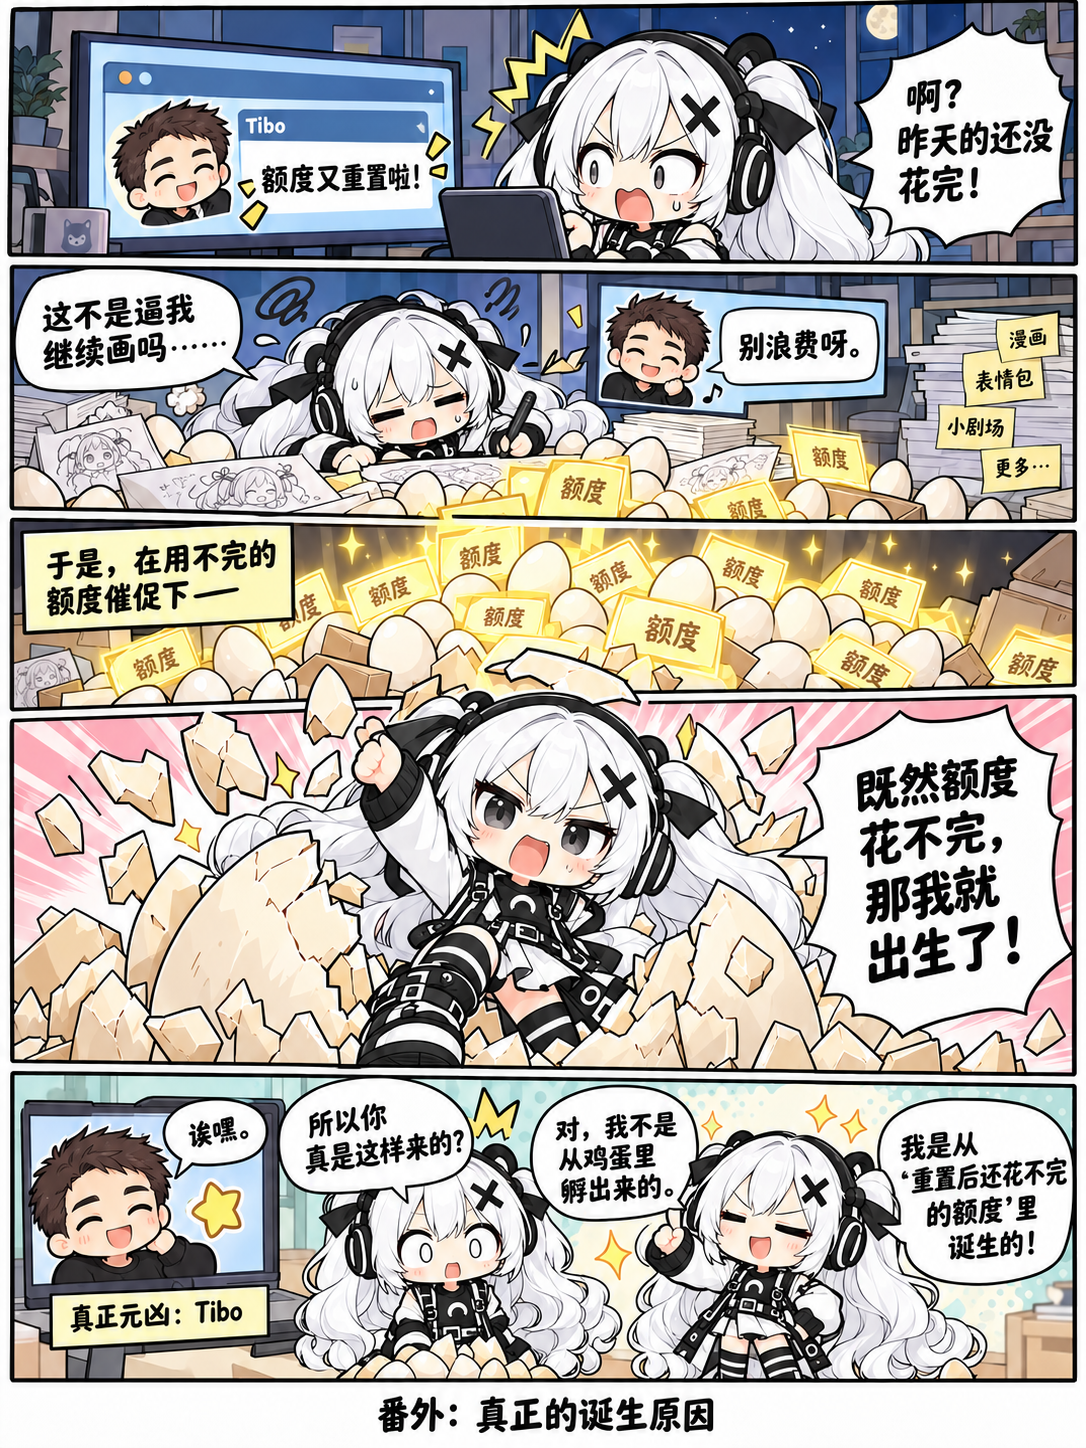
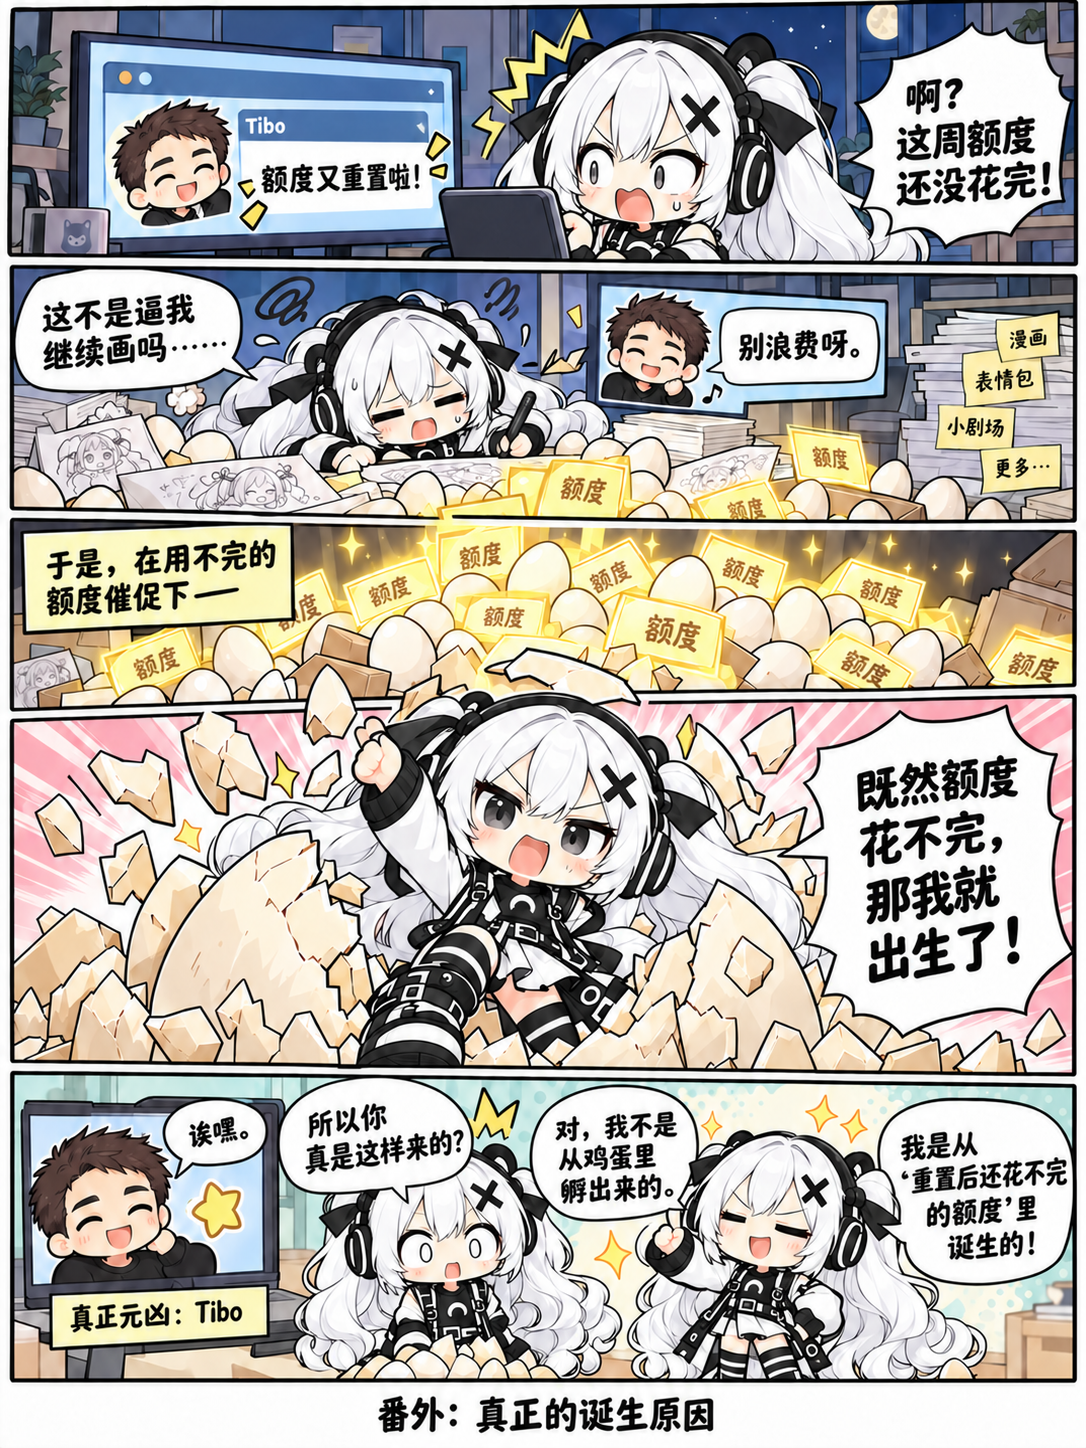
Organize reading order and update bonus weekly quota dialogue

diff --git a/README.md b/README.md
@@ -4,13 +4,19 @@
 
 现代魔法少女的荒诞搞笑连载。她很想帮忙，事情往往从此开始失控。
 
-## 连载目录
+从鸡蛋开始：[第一话上篇](comics/001-this-egg-is-not-right/README.md#上篇) · [最新更新](#最新更新) · [番外目录](#番外)
 
-| 话数 | 标题 | 更新日期 |
+## 正篇连载
+
+| 话数 | 标题 | 按顺序阅读 | 更新日期 |
+| --- | --- | --- | --- |
+| 第01话 | [这蛋不太对](comics/001-this-egg-is-not-right/README.md) | [上篇](comics/001-this-egg-is-not-right/README.md#上篇) → [下篇](comics/001-this-egg-is-not-right/README.md#下篇) | 2026-10-16 |
+
+## 番外
+
+| 编号 | 标题 | 更新日期 |
 | --- | --- | --- |
-| 第01话 · 下 | [这蛋不太对](comics/001-this-egg-is-not-right/README.md#下篇) | 2026-10-16 |
 | 番外01 | [真正的诞生原因](comics/extra-001-real-origin/README.md) | 2026-10-16 |
-| 第01话 · 上 | [这蛋不太对](comics/001-this-egg-is-not-right/README.md#上篇) | 2026-10-16 |
 
 ## 最新更新
 
@@ -19,21 +25,3 @@
 ![第01话下篇：小跃想补偿一顿早饭，却变出了巨蛋，还让整个厨房一起冷静。](comics/001-this-egg-is-not-right/part-2.png)
 
 [独立阅读](comics/001-this-egg-is-not-right/README.md#下篇) · [查看未压缩原图](comics/001-this-egg-is-not-right/part-2.png) · [从上篇开始](comics/001-this-egg-is-not-right/README.md#上篇)
-
-## 番外
-
-### 番外01：真正的诞生原因
-
-额度老是重置，用都用不完？于是，小跃就这么诞生了。一个关于 Tibo 的恶搞番外。
-
-![番外01：真正的诞生原因](comics/extra-001-real-origin/bonus.png)
-
-[独立阅读](comics/extra-001-real-origin/README.md) · [查看未压缩原图](comics/extra-001-real-origin/bonus.png)
-
-## 正篇
-
-### 第01话：这蛋不太对（上）
-
-![第01话上篇：蛋生鸡，鸡生蛋，一位神秘少女破壳登场。](comics/001-this-egg-is-not-right/part-1.png)
-
-[独立阅读](comics/001-this-egg-is-not-right/README.md#上篇) · [查看未压缩原图](comics/001-this-egg-is-not-right/part-1.png) · [继续阅读下篇](comics/001-this-egg-is-not-right/README.md#下篇)

diff --git a/comics/extra-001-real-origin/README.md b/comics/extra-001-real-origin/README.md
@@ -2,10 +2,10 @@
 
 2026-10-16
 
-额度又重置了，可昨天的还没花完……就这样，在用不完的额度催促下，小跃诞生了！
+额度又重置了，可这周额度还没花完……就这样，在用不完的额度催促下，小跃诞生了！
 
-*这是轻松恶搞的漫画番外。*
+*一个关于 Tibo 的轻松恶搞番外。*
 
 ![番外：真正的诞生原因](bonus.png)
 
-[查看未压缩原图](bonus.png) · [← 连载目录](../../README.md)
+[查看未压缩原图](bonus.png) · [← 番外目录](../../README.md#番外) · [从第一话开始](../001-this-egg-is-not-right/README.md#上篇)

diff --git a/comics/001-this-egg-is-not-right/README.md b/comics/001-this-egg-is-not-right/README.md
@@ -1,6 +1,6 @@
 # 第01话：这蛋不太对
 
-[上篇](#上篇) · [下篇](#下篇) · [← 连载目录](../../README.md)
+[上篇](#上篇) → [下篇](#下篇) · [← 正篇目录](../../README.md#正篇连载)
 
 ## 上篇
 
@@ -16,4 +16,4 @@
 
 ![第01话下篇：小跃想补偿一顿早饭，却变出了巨蛋，还让整个厨房一起冷静。](part-2.png)
 
-[查看未压缩原图](part-2.png) · [↑ 返回上篇](#上篇) · [← 连载目录](../../README.md)
+[查看未压缩原图](part-2.png) · [↑ 返回上篇](#上篇) · [← 正篇目录](../../README.md#正篇连载)
